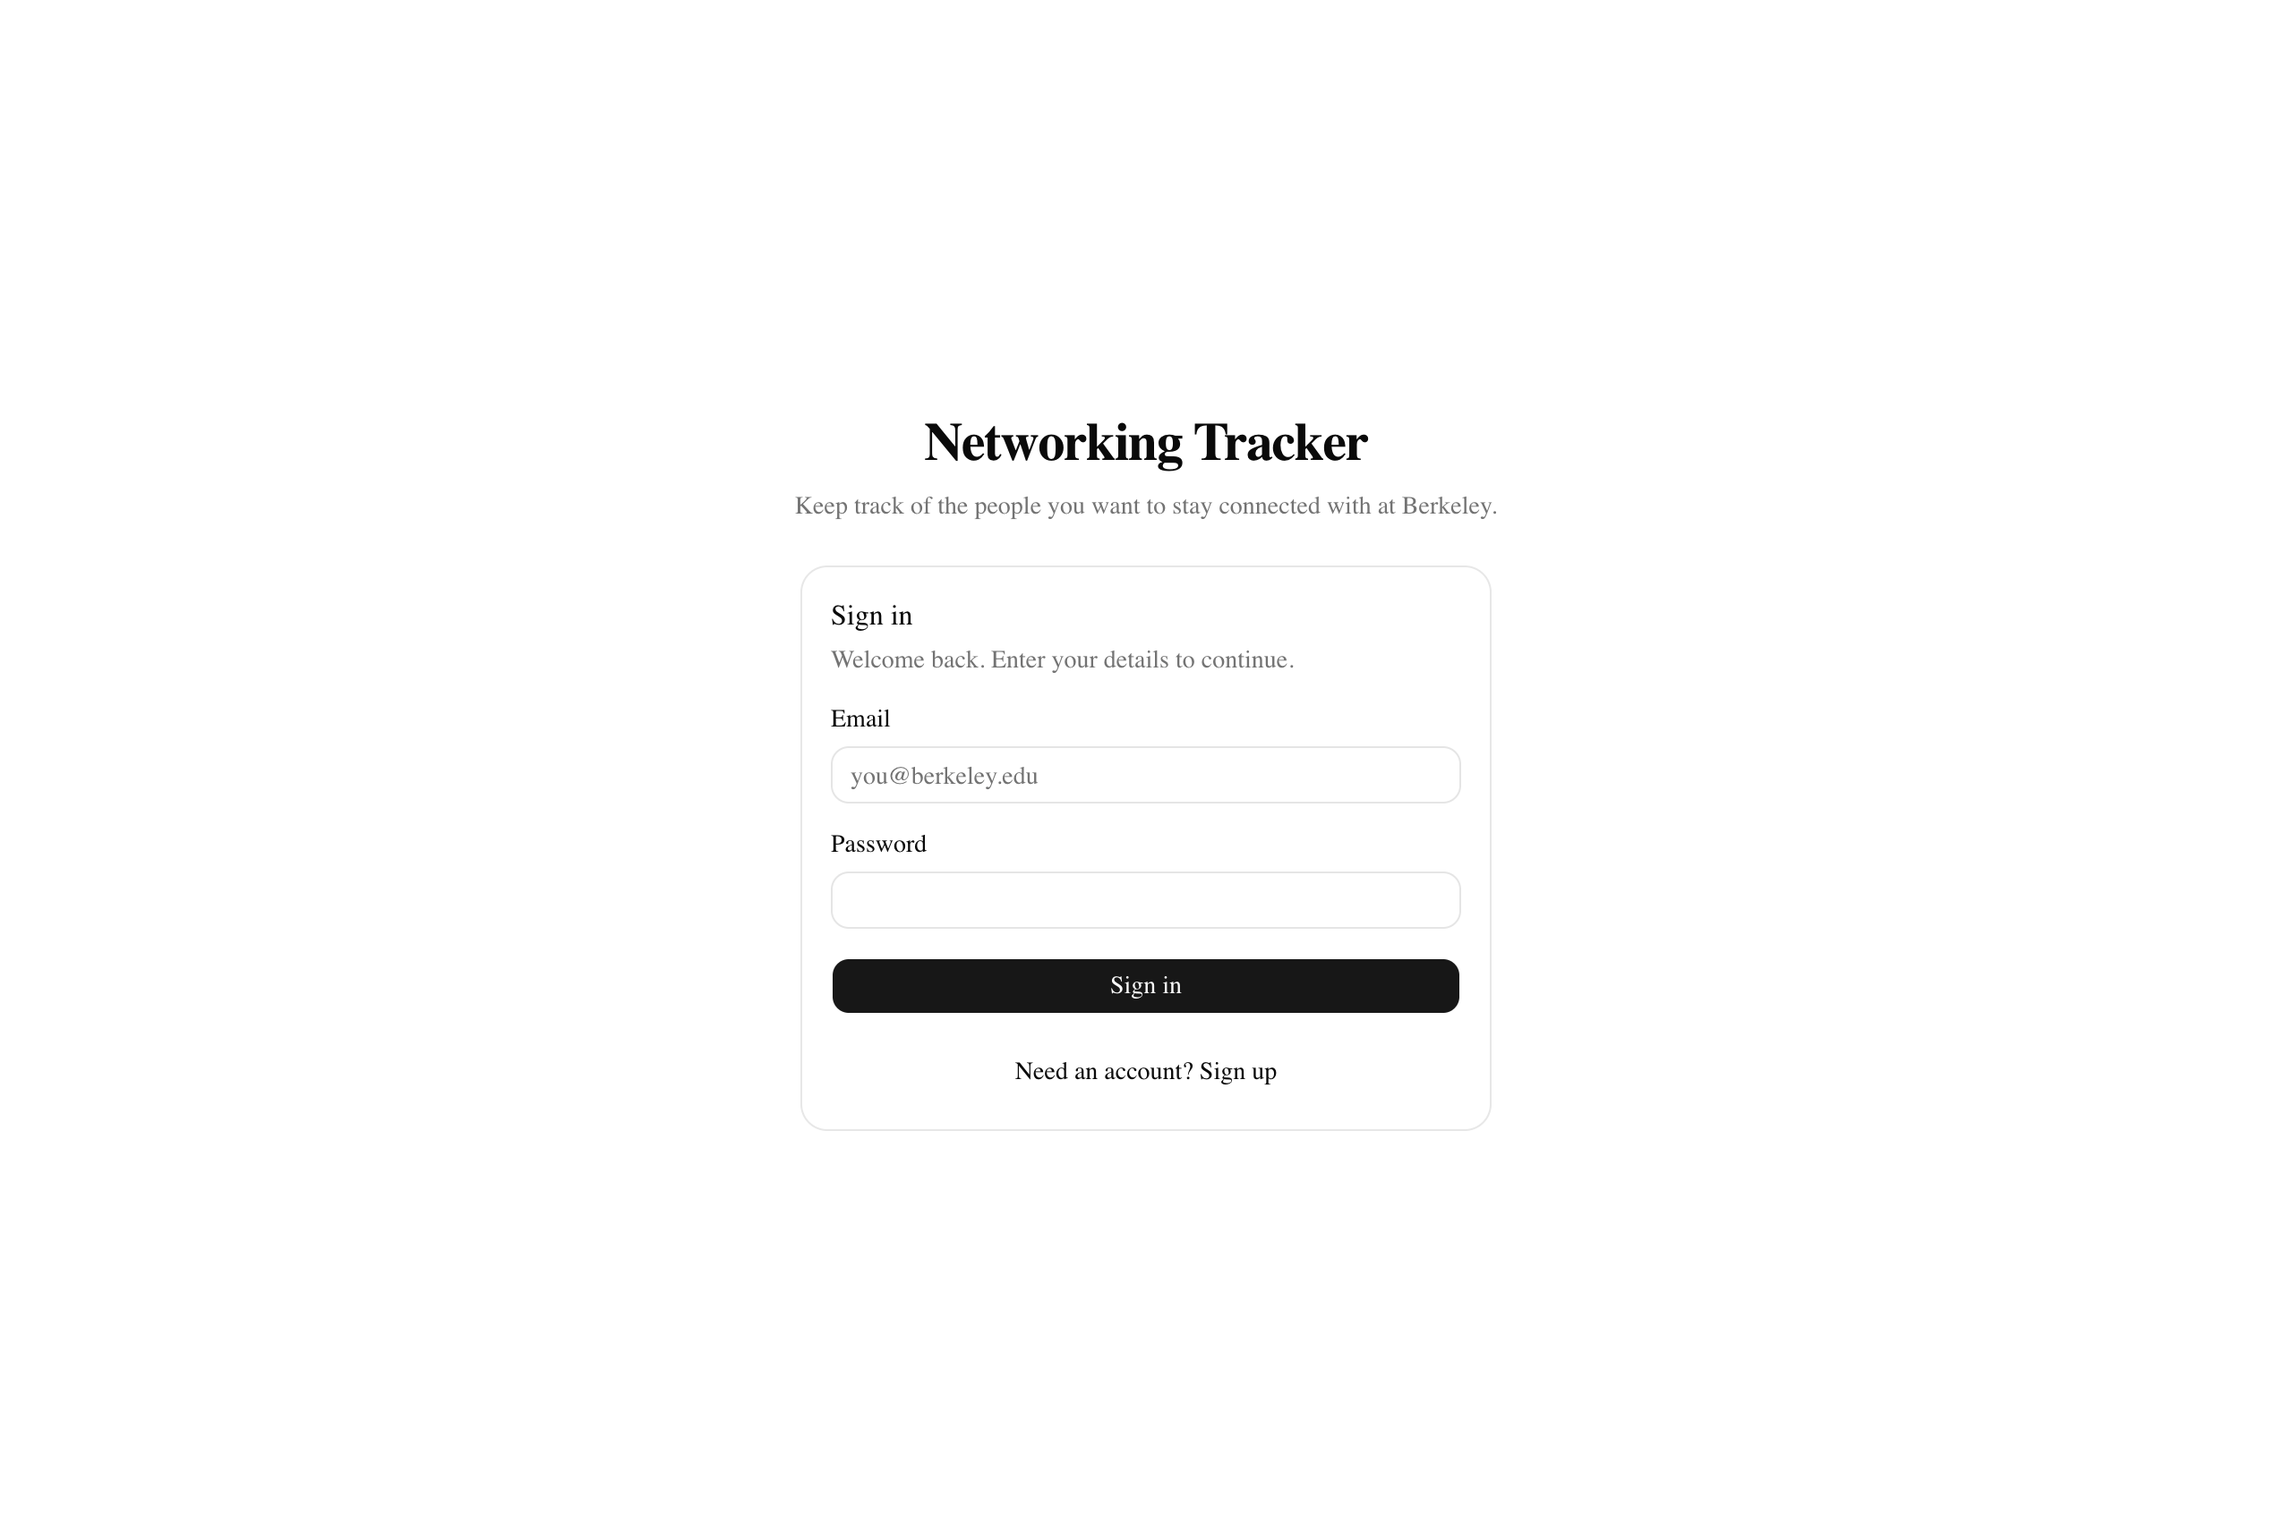
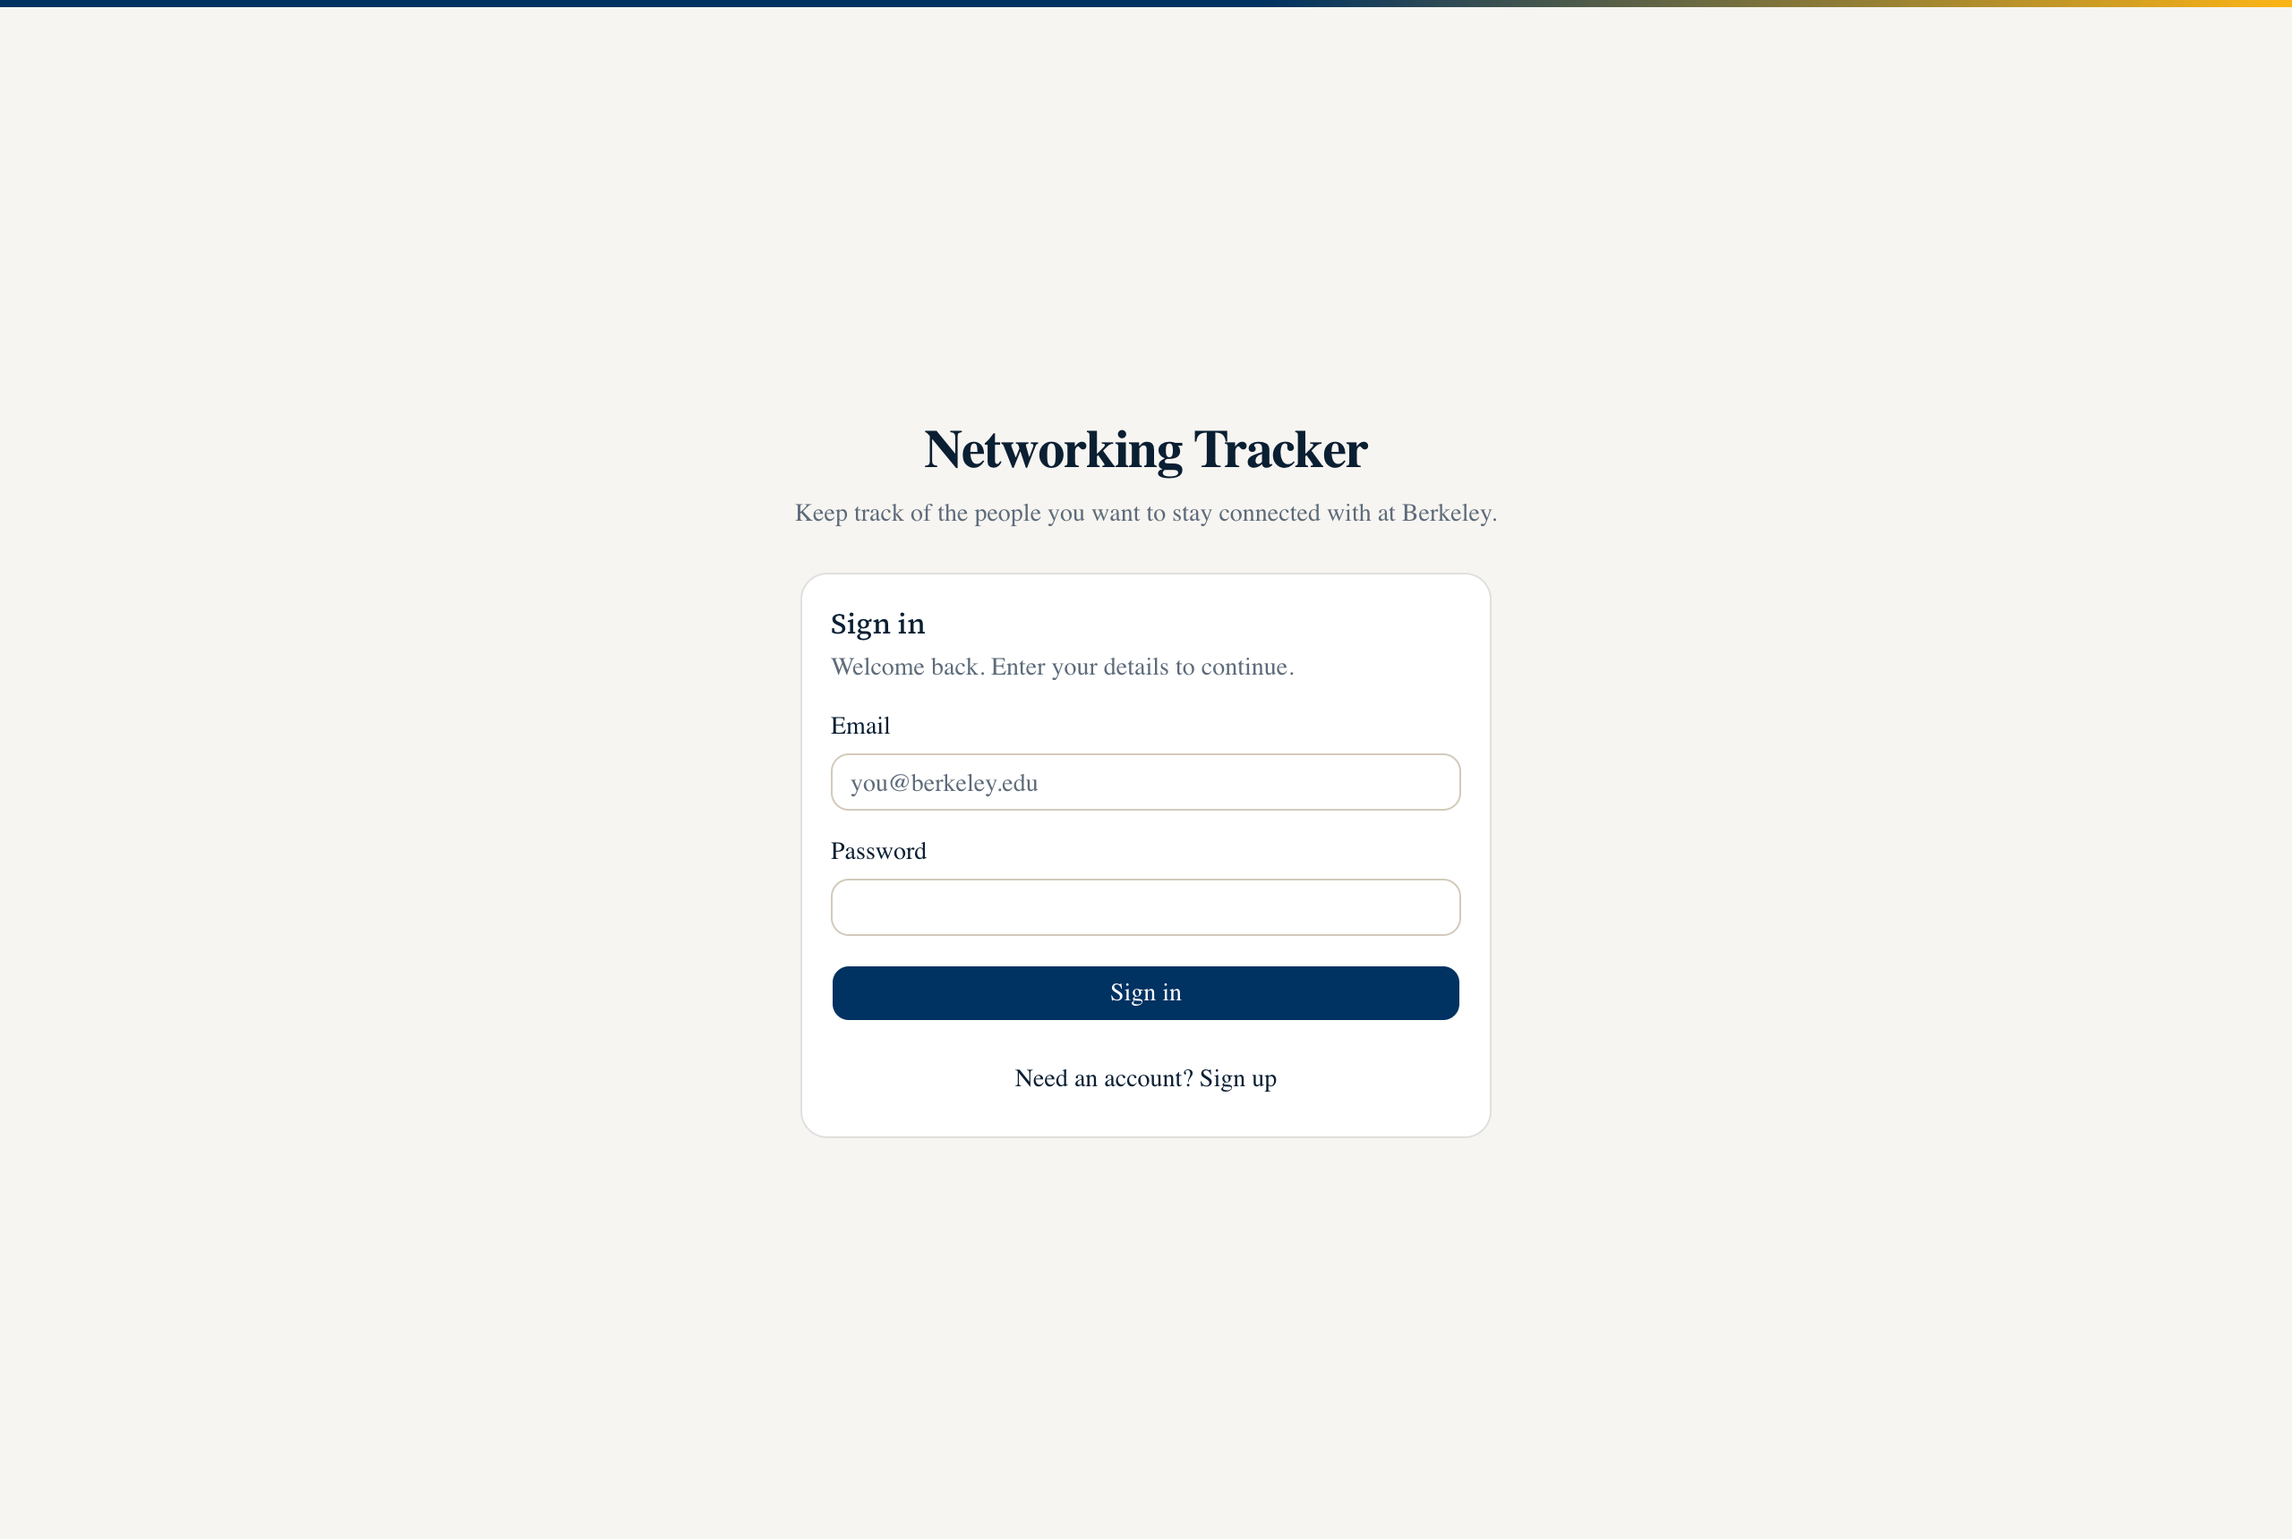
Theme the app to UC Berkeley
Palette from brand.berkeley.edu, defined as named tokens in globals.css:
Berkeley Blue for primary, California Gold for focus rings and accents, Bay
Fog for borders and the page ground. Dark mode swaps the roles, since Berkeley
Blue has too little contrast on a navy background.

Type is Adobe's Source superfamily (Source Serif 4 headings, Source Sans 3
body). Berkeley's Freight faces are licensed and cannot be shipped.

Priority badges became a heat ramp. The first attempt tinted all three, which
made High read as less urgent than the gold Medium badge - backwards - so High
is now solid. All badges and the primary button were checked against WCAG AA
(5.02, 6.72, 5.59 and 12.86 to 1) rather than eyeballed.

Screenshots regenerated against production.

diff --git a/app/globals.css b/app/globals.css
@@ -7,9 +7,9 @@
 @theme inline {
   --color-background: var(--background);
   --color-foreground: var(--foreground);
-  --font-sans: var(--font-sans);
-  --font-mono: var(--font-geist-mono);
-  --font-heading: var(--font-sans);
+  --font-sans: var(--font-source-sans), ui-sans-serif, system-ui, sans-serif;
+  --font-mono: var(--font-geist-mono), ui-monospace, monospace;
+  --font-heading: var(--font-source-serif), ui-serif, Georgia, serif;
   --color-sidebar-ring: var(--sidebar-ring);
   --color-sidebar-border: var(--sidebar-border);
   --color-sidebar-accent-foreground: var(--sidebar-accent-foreground);
@@ -49,72 +49,107 @@
 }
 
 :root {
-  --background: oklch(1 0 0);
-  --foreground: oklch(0.145 0 0);
-  --card: oklch(1 0 0);
-  --card-foreground: oklch(0.145 0 0);
-  --popover: oklch(1 0 0);
-  --popover-foreground: oklch(0.145 0 0);
-  --primary: oklch(0.205 0 0);
-  --primary-foreground: oklch(0.985 0 0);
-  --secondary: oklch(0.97 0 0);
-  --secondary-foreground: oklch(0.205 0 0);
-  --muted: oklch(0.97 0 0);
-  --muted-foreground: oklch(0.556 0 0);
-  --accent: oklch(0.97 0 0);
-  --accent-foreground: oklch(0.205 0 0);
-  --destructive: oklch(0.577 0.245 27.325);
-  --border: oklch(0.922 0 0);
-  --input: oklch(0.922 0 0);
-  --ring: oklch(0.708 0 0);
-  --chart-1: oklch(0.87 0 0);
-  --chart-2: oklch(0.556 0 0);
-  --chart-3: oklch(0.439 0 0);
-  --chart-4: oklch(0.371 0 0);
-  --chart-5: oklch(0.269 0 0);
+  /* ---------------------------------------------------------------------
+     UC Berkeley palette (brand.berkeley.edu). Named here so every token
+     below reads as a colour someone can recognise, instead of a raw value.
+     --------------------------------------------------------------------- */
+  --berkeley-blue: #003262;   /* primary */
+  --california-gold: #fdb515; /* primary */
+  --founders-rock: #3b7ea1;   /* secondary blue */
+  --medalist: #c4820e;        /* deep gold */
+  --bay-fog: #ddd5c7;         /* warm neutral */
+  --wellman-tile: #d9661f;    /* warm accent */
+  --stone-pine: #584f29;
+
+  /* Page sits on a light Bay Fog tint so white cards lift off it. */
+  --background: #f7f5f1;
+  --foreground: #0b1f33;
+
+  --card: #ffffff;
+  --card-foreground: #0b1f33;
+  --popover: #ffffff;
+  --popover-foreground: #0b1f33;
+
+  --primary: var(--berkeley-blue);
+  --primary-foreground: #ffffff;
+
+  --secondary: #ebe6dc;
+  --secondary-foreground: var(--berkeley-blue);
+
+  --muted: #efebe3;
+  --muted-foreground: #5d6b7a;
+
+  --accent: var(--california-gold);
+  --accent-foreground: var(--berkeley-blue);
+
+  --destructive: #b3261e;
+
+  --border: var(--bay-fog);
+  --input: #d3cabb;
+  /* Gold focus ring: high contrast against both the page and the cards. */
+  --ring: var(--california-gold);
+
+  --chart-1: var(--berkeley-blue);
+  --chart-2: var(--founders-rock);
+  --chart-3: var(--california-gold);
+  --chart-4: var(--medalist);
+  --chart-5: var(--stone-pine);
+
   --radius: 0.625rem;
-  --sidebar: oklch(0.985 0 0);
-  --sidebar-foreground: oklch(0.145 0 0);
-  --sidebar-primary: oklch(0.205 0 0);
-  --sidebar-primary-foreground: oklch(0.985 0 0);
-  --sidebar-accent: oklch(0.97 0 0);
-  --sidebar-accent-foreground: oklch(0.205 0 0);
-  --sidebar-border: oklch(0.922 0 0);
-  --sidebar-ring: oklch(0.708 0 0);
+
+  --sidebar: #ffffff;
+  --sidebar-foreground: #0b1f33;
+  --sidebar-primary: var(--berkeley-blue);
+  --sidebar-primary-foreground: #ffffff;
+  --sidebar-accent: #ebe6dc;
+  --sidebar-accent-foreground: var(--berkeley-blue);
+  --sidebar-border: var(--bay-fog);
+  --sidebar-ring: var(--california-gold);
 }
 
 .dark {
-  --background: oklch(0.145 0 0);
-  --foreground: oklch(0.985 0 0);
-  --card: oklch(0.205 0 0);
-  --card-foreground: oklch(0.985 0 0);
-  --popover: oklch(0.205 0 0);
-  --popover-foreground: oklch(0.985 0 0);
-  --primary: oklch(0.922 0 0);
-  --primary-foreground: oklch(0.205 0 0);
-  --secondary: oklch(0.269 0 0);
-  --secondary-foreground: oklch(0.985 0 0);
-  --muted: oklch(0.269 0 0);
-  --muted-foreground: oklch(0.708 0 0);
-  --accent: oklch(0.269 0 0);
-  --accent-foreground: oklch(0.985 0 0);
-  --destructive: oklch(0.704 0.191 22.216);
-  --border: oklch(1 0 0 / 10%);
-  --input: oklch(1 0 0 / 15%);
-  --ring: oklch(0.556 0 0);
-  --chart-1: oklch(0.87 0 0);
-  --chart-2: oklch(0.556 0 0);
-  --chart-3: oklch(0.439 0 0);
-  --chart-4: oklch(0.371 0 0);
-  --chart-5: oklch(0.269 0 0);
-  --sidebar: oklch(0.205 0 0);
-  --sidebar-foreground: oklch(0.985 0 0);
-  --sidebar-primary: oklch(0.488 0.243 264.376);
-  --sidebar-primary-foreground: oklch(0.985 0 0);
-  --sidebar-accent: oklch(0.269 0 0);
-  --sidebar-accent-foreground: oklch(0.985 0 0);
-  --sidebar-border: oklch(1 0 0 / 10%);
-  --sidebar-ring: oklch(0.556 0 0);
+  /* Dark mode is Berkeley Blue taken deeper, with gold as the lead accent. */
+  --background: #04182b;
+  --foreground: #f3f0ea;
+
+  --card: #072b4a;
+  --card-foreground: #f3f0ea;
+  --popover: #072b4a;
+  --popover-foreground: #f3f0ea;
+
+  /* Berkeley Blue has too little contrast on a navy page, so gold leads here. */
+  --primary: var(--california-gold);
+  --primary-foreground: #002d55;
+
+  --secondary: #0d3a61;
+  --secondary-foreground: #f3f0ea;
+
+  --muted: #0d3355;
+  --muted-foreground: #a7bccf;
+
+  --accent: var(--founders-rock);
+  --accent-foreground: #ffffff;
+
+  --destructive: #ef5350;
+
+  --border: #ffffff1f;
+  --input: #ffffff2b;
+  --ring: var(--california-gold);
+
+  --chart-1: var(--california-gold);
+  --chart-2: var(--founders-rock);
+  --chart-3: var(--medalist);
+  --chart-4: var(--bay-fog);
+  --chart-5: #7fb2cc;
+
+  --sidebar: #072b4a;
+  --sidebar-foreground: #f3f0ea;
+  --sidebar-primary: var(--california-gold);
+  --sidebar-primary-foreground: #002d55;
+  --sidebar-accent: #0d3a61;
+  --sidebar-accent-foreground: #f3f0ea;
+  --sidebar-border: #ffffff1f;
+  --sidebar-ring: var(--california-gold);
 }
 
 @layer base {
@@ -126,5 +161,21 @@
   }
   html {
     @apply font-sans;
+  }
+  h1,
+  h2,
+  h3 {
+    font-family: var(--font-heading);
+    letter-spacing: -0.01em;
+  }
+  /* Berkeley Blue to California Gold, pinned above the page. */
+  .berkeley-rule {
+    height: 4px;
+    background: linear-gradient(
+      90deg,
+      var(--berkeley-blue) 0%,
+      var(--berkeley-blue) 55%,
+      var(--california-gold) 100%
+    );
   }
 }

diff --git a/app/layout.tsx b/app/layout.tsx
@@ -1,10 +1,33 @@
 import type { Metadata } from 'next';
-import { Geist, Geist_Mono } from 'next/font/google';
+import { Source_Sans_3, Source_Serif_4, Geist_Mono } from 'next/font/google';
 import { Toaster } from '@/components/ui/sonner';
 import './globals.css';
 
-const geistSans = Geist({ variable: '--font-geist-sans', subsets: ['latin'] });
-const geistMono = Geist_Mono({ variable: '--font-geist-mono', subsets: ['latin'] });
+/**
+ * Berkeley's own brand fonts (Freight Sans / Freight Display) are licensed and
+ * cannot be redistributed, so this uses Adobe's Source superfamily: the closest
+ * open pairing in feel, and designed to work together.
+ *
+ * Source Serif carries the headings the way the Berkeley wordmark does;
+ * Source Sans keeps dense contact rows readable.
+ */
+const sourceSans = Source_Sans_3({
+  variable: '--font-source-sans',
+  subsets: ['latin'],
+  display: 'swap',
+});
+
+const sourceSerif = Source_Serif_4({
+  variable: '--font-source-serif',
+  subsets: ['latin'],
+  display: 'swap',
+});
+
+const geistMono = Geist_Mono({
+  variable: '--font-geist-mono',
+  subsets: ['latin'],
+  display: 'swap',
+});
 
 export const metadata: Metadata = {
   title: 'Networking Tracker',
@@ -14,7 +37,12 @@ export const metadata: Metadata = {
 export default function RootLayout({ children }: { children: React.ReactNode }) {
   return (
     <html lang="en" suppressHydrationWarning>
-      <body className={`${geistSans.variable} ${geistMono.variable} antialiased min-h-svh bg-background`}>
+      <body
+        className={`${sourceSans.variable} ${sourceSerif.variable} ${geistMono.variable} bg-background min-h-svh antialiased`}
+      >
+        {/* Berkeley Blue into California Gold. The one piece of pure decoration
+            in the app, and it sets the palette before anything else renders. */}
+        <div aria-hidden className="berkeley-rule" />
         {children}
         <Toaster richColors position="top-center" />
       </body>

diff --git a/components/contacts-view.tsx b/components/contacts-view.tsx
@@ -37,10 +37,18 @@ const PRIORITY_FILTER_LABELS: Record<PriorityFilter, string> = {
   low: 'Low',
 };
 
+/**
+ * A heat ramp drawn from the Berkeley palette: Wellman Tile for urgent,
+ * California Gold for the middle, Bay Fog for the rest. Colour is doubled up
+ * with the word itself, so the ranking never depends on seeing hue.
+ */
 const PRIORITY_STYLES: Record<Priority, string> = {
-  high: 'border-transparent bg-red-100 text-red-900 dark:bg-red-950 dark:text-red-200',
-  medium: 'border-transparent bg-amber-100 text-amber-900 dark:bg-amber-950 dark:text-amber-200',
-  low: 'border-transparent bg-slate-100 text-slate-700 dark:bg-slate-800 dark:text-slate-200',
+  // High is solid so it outranks the others at a glance. A tinted version read
+  // as *less* urgent than the gold Medium badge, which is backwards.
+  // The orange is Wellman Tile darkened to clear 4.5:1 against white text.
+  high: 'border-transparent bg-[#b4530f] text-white dark:bg-[#e07a2c] dark:text-[#2b1405]',
+  medium: 'border-transparent bg-[#fdeecb] text-[#6b4e06] dark:bg-[#413309] dark:text-[#f8dc9c]',
+  low: 'border-transparent bg-[#e6e1d6] text-[#4f5a45] dark:bg-[#1d3350] dark:text-[#c9d3dd]',
 };
 
 export function ContactsView() {

diff --git a/README.md b/README.md
@@ -69,12 +69,45 @@ were captured against the live Vercel deployment**, not localhost.
 | Layer | Choice | Why |
 |---|---|---|
 | Framework | Next.js 16 (App Router, TypeScript) | One project holds the React UI and the HTTP API, while still keeping them in separate layers. Deploys to Vercel with no configuration. |
-| Styling | Tailwind CSS 4 + shadcn/ui | shadcn/ui gives accessible, unstyled-by-default components (dialog, select, toast) that I own in-repo, so the design system is visible in the code rather than hidden in a dependency. |
+| Styling | Tailwind CSS 4 + shadcn/ui, themed to UC Berkeley | shadcn/ui gives accessible, unstyled-by-default components (dialog, select, toast) that I own in-repo, so the design system is visible in the code rather than hidden in a dependency. The palette and type are Berkeley's - see [Design](#design). |
 | Auth | Neon Managed Better Auth | Users and sessions live in the same Postgres database as the data, so `auth.user_id()` is available inside RLS policies. No second system to keep in sync. |
 | Data | Neon Data API (PostgREST) via `@neondatabase/neon-js` | Requests carry the user's own JWT, so Postgres evaluates RLS per request. The server never holds a privileged database credential. |
 | Validation | Zod + Postgres `CHECK` constraints | Zod produces friendly per-field errors; the `CHECK` constraints are the rule that cannot be bypassed. |
 | Tests | Vitest | Fast, TypeScript-native, no extra config for path aliases. |
 | Hosting | Vercel | First-class Next.js support and per-environment variables. |
+
+## Design
+
+The component system is shadcn/ui on Tailwind 4, re-themed to the
+[UC Berkeley palette](https://brand.berkeley.edu). Every colour is defined once
+as a named token in `app/globals.css`, so the theme reads as colours a person
+can recognise rather than raw hex scattered through components:
+
+| Token | Berkeley colour | Used for |
+|---|---|---|
+| `--primary` | Berkeley Blue `#003262` | Buttons, headings, links |
+| `--ring` | California Gold `#FDB515` | Focus rings |
+| `--border` | Bay Fog `#DDD5C7` | Card and input borders |
+| `--background` | Bay Fog tint `#F7F5F1` | Page, so white cards lift off it |
+| `--accent` | California Gold | Highlights |
+
+Type is Adobe's Source superfamily — **Source Serif 4** for headings, **Source
+Sans 3** for body. Berkeley's own Freight Sans and Freight Display are
+licensed and cannot be redistributed; Source is the closest open pairing in
+feel, and the two faces are designed to work together.
+
+Two decisions worth calling out:
+
+- **Priority badges are a heat ramp, not decoration.** High is solid Wellman
+  Tile, Medium is a California Gold tint, Low is Bay Fog. A tinted High badge
+  read as *less* urgent than the gold Medium one, which inverted the meaning,
+  so High was given solid weight. Every badge also carries the word, so the
+  ranking never depends on seeing colour.
+- **Contrast was measured, not eyeballed.** All three badges and the primary
+  button clear WCAG AA: 5.02, 6.72, 5.59 and 12.86 to 1.
+
+In dark mode the roles swap — gold leads and Berkeley Blue becomes the ground,
+because Berkeley Blue has too little contrast against a dark navy page.
 
 ## Architecture
 
